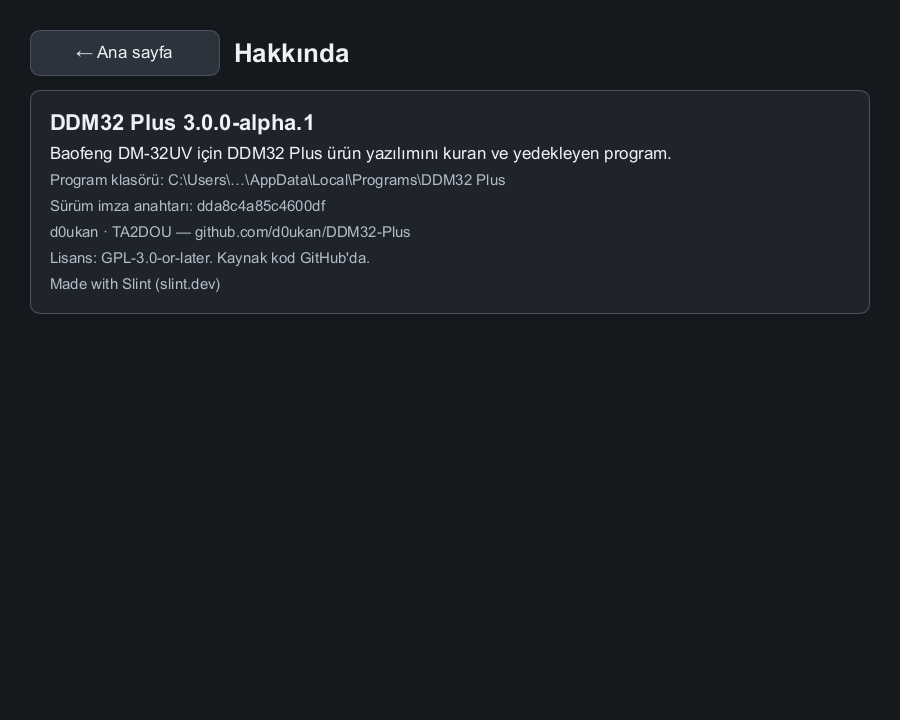
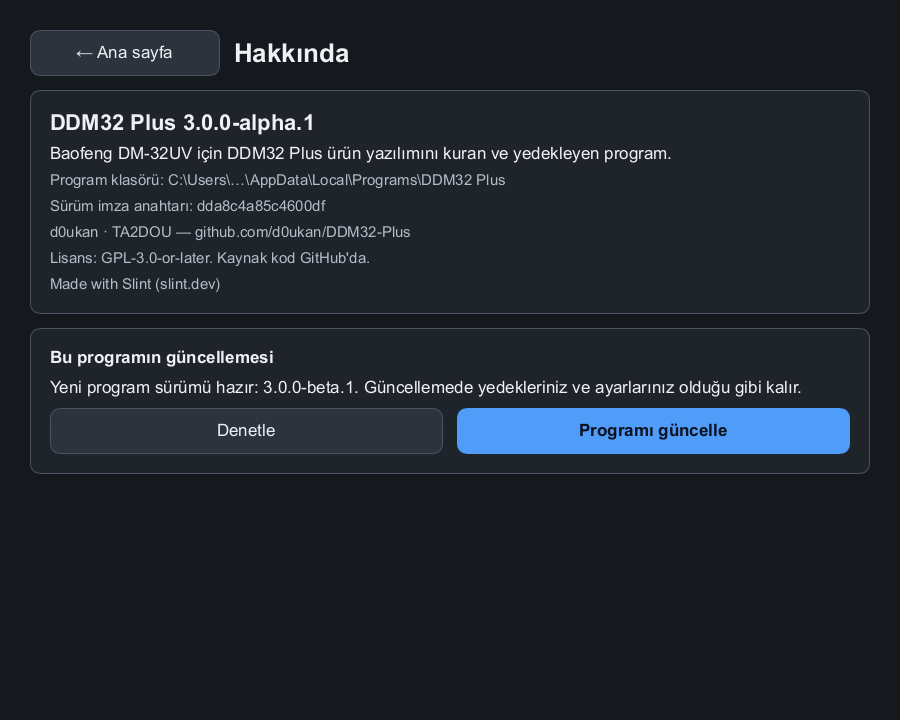
Rust window: the program's own update in Settings and About
Checks the signed release list for a newer build of this program for this platform
(app_rs; prereleases from the Beta channel on). On Windows: downloads it (size and
SHA-256 from the signed manifest), stages it, starts the staged program as the swap
helper and closes; the next start shows the result once and clears old staging
folders. On Linux and macOS it opens the release page (the package is replaced there).

Changed region(s): [[0.0311, 0.4889, 0.9644, 0.6417]]

diff --git a/rust/crates/ddm32-gui/src/lib.rs b/rust/crates/ddm32-gui/src/lib.rs
@@ -41,6 +41,8 @@ pub struct State {
     pub quick: Option<PathBuf>,
     pub pack: Option<PathBuf>,
     pub tracker: ProgressTracker,
+    /// A note shown once on Home (the last program update's result).
+    pub note: Option<String>,
 }
 
 thread_local! {
@@ -144,6 +146,7 @@ pub fn setup(ui: &AppWindow, paths: AppPaths, fetch: bool) {
             quick: None,
             pack: None,
             tracker: ProgressTracker::new(),
+            note: None,
         })
     });
     wire(ui);
@@ -151,6 +154,19 @@ pub fn setup(ui: &AppWindow, paths: AppPaths, fetch: bool) {
     if first_start {
         app.set_page(6);
     }
+    // the last program update's result, once; old staging folders and zips go
+    let updates = with(|s| s.paths.updates());
+    if let Some(r) = ddm32_core::update::self_update::read_result(&updates) {
+        let key = match r.as_str() {
+            "ok" => "pu_result_ok",
+            "rolled_back" => "pu_result_rolled_back",
+            _ => "pu_result_aborted",
+        };
+        let note = trf(key, ddm32_core::app_info::VERSION);
+        with(|s| s.note = Some(note));
+        refresh(ui);
+    }
+    ddm32_core::update::self_update::cleanup(&updates, None);
     if fetch && auto {
         load_catalog(ui.as_weak());
     }
@@ -238,6 +254,14 @@ fn wire(ui: &AppWindow) {
     app.on_pack_air(move || pack_air(&w.unwrap()));
     let w = ui.as_weak();
     app.on_pack_write(move || pack_write(&w.unwrap()));
+    let w = ui.as_weak();
+    app.on_app_check(move || {
+        let ui = w.unwrap();
+        ui.global::<App>().set_app_update_text(tr("pu_checking").into());
+        load_catalog(ui.as_weak());
+    });
+    let w = ui.as_weak();
+    app.on_app_update(move || app_update(&w.unwrap()));
     app.on_open_backups_folder(move || {
         let dir = with(|s| s.paths.backups());
         open_folder(&dir);
@@ -362,6 +386,22 @@ fn refresh(ui: &AppWindow) {
         .map(|imgs| installed_line(&imgs["progmem-pass1.bin"], &all, &lang))
         .unwrap_or_else(|| tr("installed_none"));
     app.set_installed_text(installed.into());
+    // the program's own update
+    let channel = app.get_channel();
+    let (text, available) = with(|s| match &s.catalog {
+        Some(cat) if cat.source != "cache" || !cat.apps.is_empty() => {
+            match newer_program(cat, ddm32_core::app_info::VERSION, channel) {
+                Some(a) => (i18n::tf(&s.lang, "pu_available", &a.entry.version), true),
+                None => (i18n::tf(&s.lang, "pu_current", ddm32_core::app_info::VERSION), false),
+            }
+        }
+        _ => (i18n::t(&s.lang, "pu_unknown"), false),
+    });
+    app.set_app_update_text(text.into());
+    app.set_app_update_available(available);
+    if let Some(note) = with(|s| s.note.clone()) {
+        app.set_update_text(format!("{note}\n{}", app.get_update_text()).into());
+    }
     app.set_quick_available(quick.is_some());
     app.set_quick_backup(
         quick.map(|q| q.file_name().unwrap_or_default().to_string_lossy().into_owned()).unwrap_or_default().into(),
@@ -376,6 +416,65 @@ fn refresh(ui: &AppWindow) {
         })
         .collect();
     app.set_backups(ModelRc::new(VecModel::from(brows)));
+}
+
+/// The newer build of this program for this platform that the channel offers (prereleases from Beta on).
+pub fn newer_program(cat: &Catalog, current: &str, channel: i32) -> Option<catalog::AppRelease> {
+    cat.newer_app(current, channel >= 1).cloned()
+}
+
+/// Downloads the new program (size and SHA-256 from the signed manifest), stages it, starts the staged program as
+/// the helper that swaps the files after this program has closed, and closes. Windows only: on Linux and macOS the
+/// package (AppImage, .app) is replaced from the download page.
+fn app_update(ui: &AppWindow) {
+    let app = ui.global::<App>();
+    let Some(rel) =
+        with(|s| s.catalog.as_ref().and_then(|c| newer_program(c, ddm32_core::app_info::VERSION, app.get_channel())))
+    else {
+        return;
+    };
+    if !cfg!(windows) {
+        let url = format!("{}/releases/tag/{}", ddm32_core::app_info::REPO_URL, rel.release);
+        app.set_app_update_text(trf("pu_other_os", &url).into());
+        let opener = if cfg!(target_os = "macos") { "open" } else { "xdg-open" };
+        let _ = std::process::Command::new(opener).arg(&url).spawn();
+        return;
+    }
+    app.set_busy(true);
+    app.set_app_update_text(tr("pu_downloading").into());
+    let updates = with(|s| s.paths.updates());
+    let w = ui.as_weak();
+    std::thread::spawn(move || {
+        use ddm32_core::update::self_update as su;
+        let r = (|| -> Result<(PathBuf, Vec<String>), String> {
+            let zip =
+                client::download_app(&rel.entry, &updates, &HttpReleaseNet::real(), None).map_err(|e| e.to_string())?;
+            let staged = su::stage(&zip, &updates, &rel.entry.version).map_err(|e| e.0)?;
+            let exe = std::env::current_exe().map_err(|e| e.to_string())?;
+            let app_dir = exe.parent().ok_or("no program folder")?.to_path_buf();
+            Ok(su::helper_command(
+                &staged,
+                std::process::id(),
+                &app_dir,
+                &updates.join("started.json"),
+                &updates.join(su::RESULT_FILE),
+            ))
+        })();
+        let _ = slint::invoke_from_event_loop(move || {
+            let Some(ui) = w.upgrade() else { return };
+            let app = ui.global::<App>();
+            app.set_busy(false);
+            match r.and_then(|(helper, args)| {
+                std::process::Command::new(&helper).args(&args).spawn().map_err(|e| e.to_string()).map(|_| ())
+            }) {
+                Ok(()) => {
+                    app.set_app_update_text(tr("pu_restarting").into());
+                    let _ = slint::quit_event_loop();
+                }
+                Err(e) => app.set_app_update_text(trf("pu_failed", &e).into()),
+            }
+        });
+    });
 }
 
 fn load_catalog(w: Weak<AppWindow>) {
@@ -796,6 +895,8 @@ pub fn demo(ui: &AppWindow) {
     app.set_update_text(i18n::tf(&lang, "update_available", "1.0.0-beta.5 (Beta)").into());
     app.set_backups_text(i18n::tf(&lang, "backups_found", "3").into());
     app.set_installed_text(i18n::tf(&lang, "installed", "DDM32 Plus 1.0.0-beta.4 (Beta)").into());
+    app.set_app_update_text(i18n::tf(&lang, "pu_available", "3.0.0-beta.1").into());
+    app.set_app_update_available(true);
     app.set_versions(ModelRc::new(VecModel::from(vec![
         VersionRow {
             version: "1.0.0".into(),

diff --git a/rust/crates/ddm32-gui/src/i18n.rs b/rust/crates/ddm32-gui/src/i18n.rs
@@ -130,6 +130,21 @@ pub const TEXTS: &[(&str, &str, &str)] = &[
     ("fw_classic", "Open25-DM32 Classic", "Open25-DM32 Classic"),
     ("fw_ddm32_unlisted", "DDM32 Plus (sürüm listede yok)", "DDM32 Plus (version not in the list)"),
     ("fw_unknown", "Bilinmeyen yazılım", "Unknown firmware"),
+    ("pu_title", "Bu programın güncellemesi", "Updating this program"),
+    ("pu_check", "Denetle", "Check"),
+    ("pu_install", "Programı güncelle", "Update the program"),
+    ("pu_current", "Program güncel ({}).", "The program is up to date ({})."),
+    ("pu_available", "Yeni program sürümü hazır: {}. Güncellemede yedekleriniz ve ayarlarınız olduğu gibi kalır.",
+     "A new program version is ready: {}. Your backups and settings stay as they are."),
+    ("pu_unknown", "Sürüm listesi henüz yüklenmedi: Denetle'ye basın.", "The list of versions is not loaded yet: press Check."),
+    ("pu_checking", "Denetleniyor…", "Checking…"),
+    ("pu_downloading", "Yeni program indiriliyor ve imzası doğrulanıyor…", "Downloading the new program and checking its signature…"),
+    ("pu_restarting", "Program kapanıp yeni sürümüyle açılacak.", "The program closes and opens again in its new version."),
+    ("pu_failed", "Program güncellenemedi: {}. Eski sürüm çalışmaya devam ediyor.", "The program could not be updated: {}. The old version keeps running."),
+    ("pu_other_os", "Yeni sürümü indirme sayfasından alın: {}", "Get the new version from the download page: {}"),
+    ("pu_result_ok", "Program güncellendi: {}.", "The program was updated: {}."),
+    ("pu_result_rolled_back", "Yeni program açılamadı; eski sürüm geri yüklendi.", "The new program did not start; the old version was put back."),
+    ("pu_result_aborted", "Program güncellemesi yapılmadı; hiçbir şey değişmedi.", "The program update did not run; nothing changed."),
     ("msg_failed", "İşlem başarısız: {}", "The step failed: {}"),
 ];
 

diff --git a/rust/crates/ddm32-gui/tests/versions.rs b/rust/crates/ddm32-gui/tests/versions.rs
@@ -80,3 +80,25 @@ fn home_names_what_the_radio_runs_by_its_backup() {
         ddm32_gui::installed_line(&vec![0xFFu8; 0x100000], &cat.firmware, "tr")
     );
 }
+
+#[test]
+fn the_program_update_follows_the_channel() {
+    let secret: Vec<u8> = (0..32u8).collect();
+    let key = hex::encode(ddm32_core::crypto::ed25519::secret_to_public(&secret));
+    let platform = ddm32_core::releases::platform_key();
+    let mut cat = Catalog::default();
+    for (tag, v) in [("v1.0.0", "3.0.0"), ("v1.1.0", "3.1.0-beta.1")] {
+        let name = format!("DDM32Plus-{v}.zip");
+        let m = json!({"format": CURRENT.format, "repo": CURRENT.repo, "release": tag, "created_utc": "2026-11-21T00:00:00Z",
+            "firmware": [], "app_rs": {platform.clone(): {"version": v, "file": name,
+            "url": format!("{}{tag}/{name}", CURRENT.url_prefix()), "sha256": sm::sha256_hex(b"z"), "size": 1}}});
+        let data = serde_json::to_vec_pretty(&m).unwrap();
+        let sig = sm::sign_bytes(&data, &secret);
+        cat.add(tag, &sm::verify_bytes(&data, sig.as_bytes(), Some(&key), None).unwrap(), None);
+    }
+    cat.sort();
+    assert_eq!("3.0.0", ddm32_gui::newer_program(&cat, "3.0.0-alpha.1", 0).unwrap().entry.version);
+    assert_eq!("3.1.0-beta.1", ddm32_gui::newer_program(&cat, "3.0.0-alpha.1", 1).unwrap().entry.version);
+    assert!(ddm32_gui::newer_program(&cat, "3.0.0", 0).is_none());
+    assert!(ddm32_gui::newer_program(&cat, "3.1.0", 2).is_none());
+}
